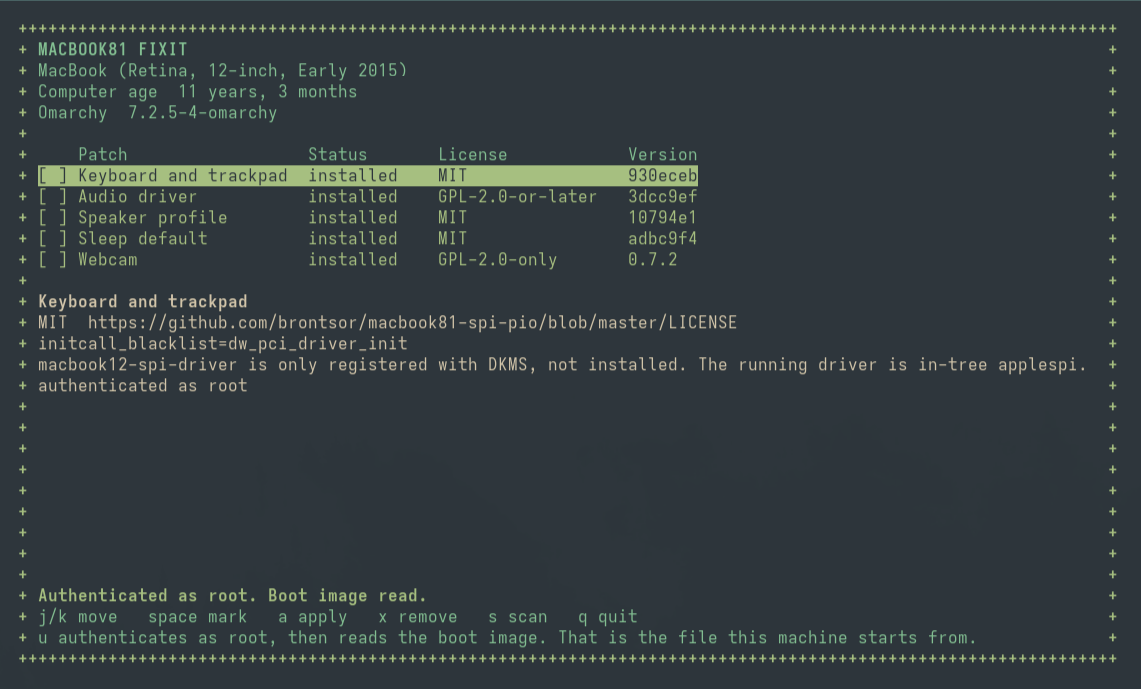
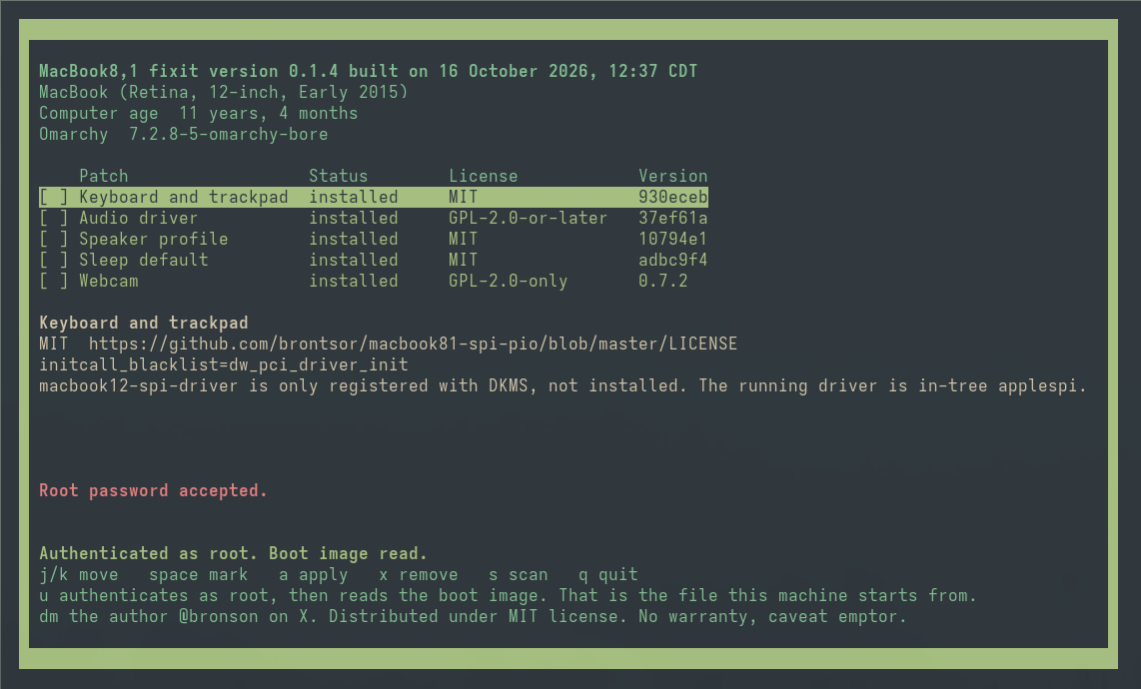
Replace the README image with the 16 October screen.

Changed region(s): [[0.0, 0.0, 0.9816, 0.9753]]

diff --git a/README.md b/README.md
@@ -136,11 +136,14 @@ This installer is MIT. See `LICENSE`. The audio driver and the webcam driver are
 
 The latest only. Older releases are in [CHANGELOG.md](CHANGELOG.md).
 
+### Unreleased
+
+- The README image is the authenticated screen from 16 October 2026. It shows version 0.1.4. The manufacture date is covered.
+
 ### [v0.1.4](https://github.com/brontsor/macbook81-fixit/releases/tag/v0.1.4)
 
 - The title reads the version fixed into this tree, `macbook81_fixit/VERSION`. This release is 0.1.4. The screen does not ask git.
 - The Version column shows a package version number only when that pin commit is the release tag. The webcam pin is 0.7.2. The other pins are commits, not their release tags, so those cells stay the short commit.
-- The README image is still the previous authenticated screen. It does not show this version line. The manufacture date is covered.
 
 ### For agents
 
